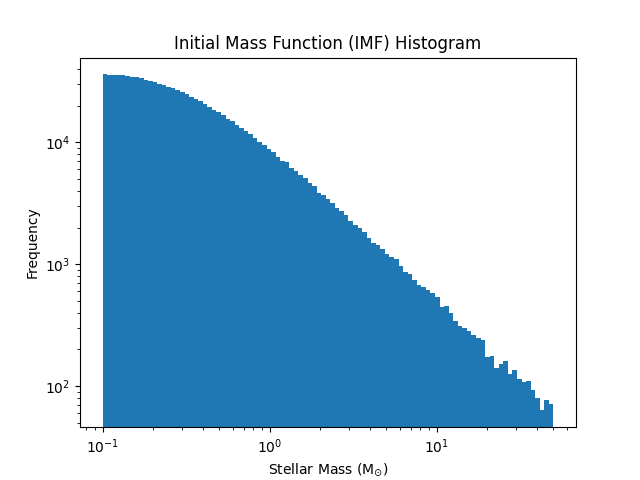
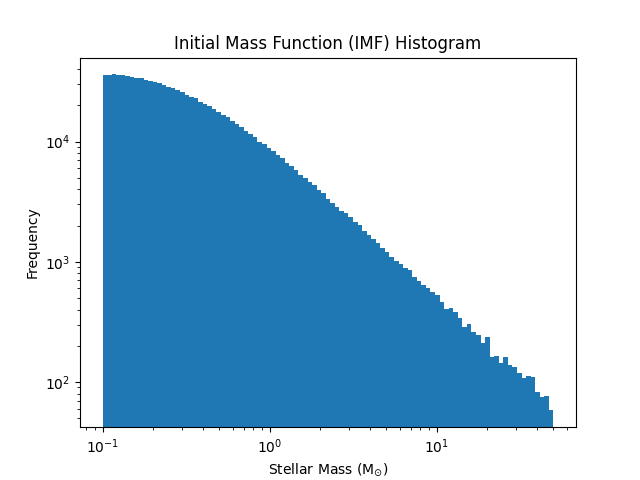
Rust working, added shell scrips and better readme

diff --git a/python/IMF/main.py b/python/IMF/main.py
@@ -1,9 +1,9 @@
-"""Module contains main function to run program."""
-
 import numpy as np
 
+from rust import get_stellar_masses
 from python.IMF.plot_and_save import plot_imf_histogram
-from python.IMF.quantile_func import quantile_func
+
+# from python.IMF.quantile_func import quantile_func  # Only uncomment if rust package is not working
 
 
 def get_stellar_mass_array() -> np.ndarray:
@@ -12,10 +12,12 @@ def get_stellar_mass_array() -> np.ndarray:
     Returns:
         np.ndarray: Stellar mass array (SI units)
     """
-    runs: int = 1_000_000
-    print(f"Calling quantile function {runs:,} times...")
-    u: np.ndarray = np.random.uniform(0, 1, runs)
-    return np.vectorize(quantile_func)(u)
+    # # Uncomment this block if rust package is not working
+    # runs: int = 1_000_000
+    # print(f"Calling quantile function {runs:,} times...")
+    # u: np.ndarray = np.random.uniform(0, 1, runs)
+    # return np.vectorize(quantile_func)(u)
+    return np.array(get_stellar_masses(), dtype=float)
 
 
 def main(stellar_mass_arr: np.ndarray) -> None:

diff --git a/rust/src/lib.rs b/rust/src/lib.rs
@@ -4,7 +4,6 @@ extern crate rand;
 mod quantile_function;
 
 use pyo3::prelude::*;
-use pyo3::types::PyList;
 use rand::{rngs::ThreadRng, Rng};
 
 const RUNS: usize = 1_000_000;
@@ -30,7 +29,7 @@ fn get_stellar_masses() -> Vec<f64> {
 }
 
 #[pymodule]
-fn rust(_py: Python, m: &PyModule) -> PyResult<()> {
+fn rust(py: Python, m: &PyModule) -> PyResult<()> {
     m.add_function(wrap_pyfunction!(get_stellar_masses, m)?)?;
     Ok(())
 }

diff --git a/run.py b/run.py
@@ -1,5 +1,3 @@
-import rust
-
 import python.IMF.main as imf
 import python.disk_calcs.main as disk
 import time
@@ -8,10 +6,6 @@ from python.IMF.main import get_stellar_mass_array
 
 if __name__ == "__main__":
     start = time.perf_counter()
-
-    from inspect import getmembers, isfunction
-
-    print(getmembers(rust, isfunction))
 
     # Call get_stellar_mass_array() once
     stellar_mass_arr = get_stellar_mass_array()

diff --git a/rust/src/quantile_function.rs b/rust/src/quantile_function.rs
@@ -36,6 +36,6 @@ pub fn quantile_func(u: f64) -> f64 {
 /// Returns:
 ///  f64: The value of the auxiliary function for the given stellar mass.
 ///
-pub fn auxiliary_func(stellar_mass: f64) -> f64 {
+fn auxiliary_func(stellar_mass: f64) -> f64 {
     (1.0 + (stellar_mass / MU).powf(1.0 - ALPHA)).powf(1.0 - BETA)
 }

diff --git a/python/IMF/quantile_func.py b/python/IMF/quantile_func.py
@@ -1,5 +1,3 @@
-"""This module contains functions representing equations in https://doi.org/10.1093/mnras/sts479"""
-
 from numba import njit
 
 

diff --git a/README.md b/README.md
@@ -14,3 +14,44 @@ then estimate how many of these rocks may harbour biological material
 that could survive the harsh environs of interstellar space. The project
 requires some prior knowledge/experience of coding (Python, or a compiled
 language such as C or Fortran).
+
+# Running the project
+This tutorial gives commands for running the project on Linux in the bash terminal. 
+
+1. Download (if you do not have these already) the Rust compiler (see <https://www.rust-lang.org/tools/install>) and a Python 3 interpreter (see <https://www.python.org/downloads/>).
+
+2. Create a virtual environment and install the required Python packages by running the following commands in the terminal. You will need to have the `venv` module installed in your Python distribution. If you do not have it, you can install it by running `sudo apt-get install python3-venv` in the terminal. Then run the following commands in the terminal to create the virtual environment and install the required packages:
+
+```bash
+python3 -m venv venv
+source venv/bin/activate
+pip install -r requirements.txt
+```
+
+3. Compile the Rust code and go back to the main directory by running the following commands in the terminal:
+
+```bash
+cd rust
+maturin develop
+cd ..
+```
+
+4. Run the program by running the following command in the terminal:
+
+```bash
+python3 run.py
+```
+
+Alternatively, run
+
+```bash
+source run_with_installs.sh
+```
+
+to run the program from complete scratch (including every install except installing Python or Rust or installing python3-venv), or run
+
+```bash
+source run_without_installs.sh
+```
+
+to run the program once everything's installed.
